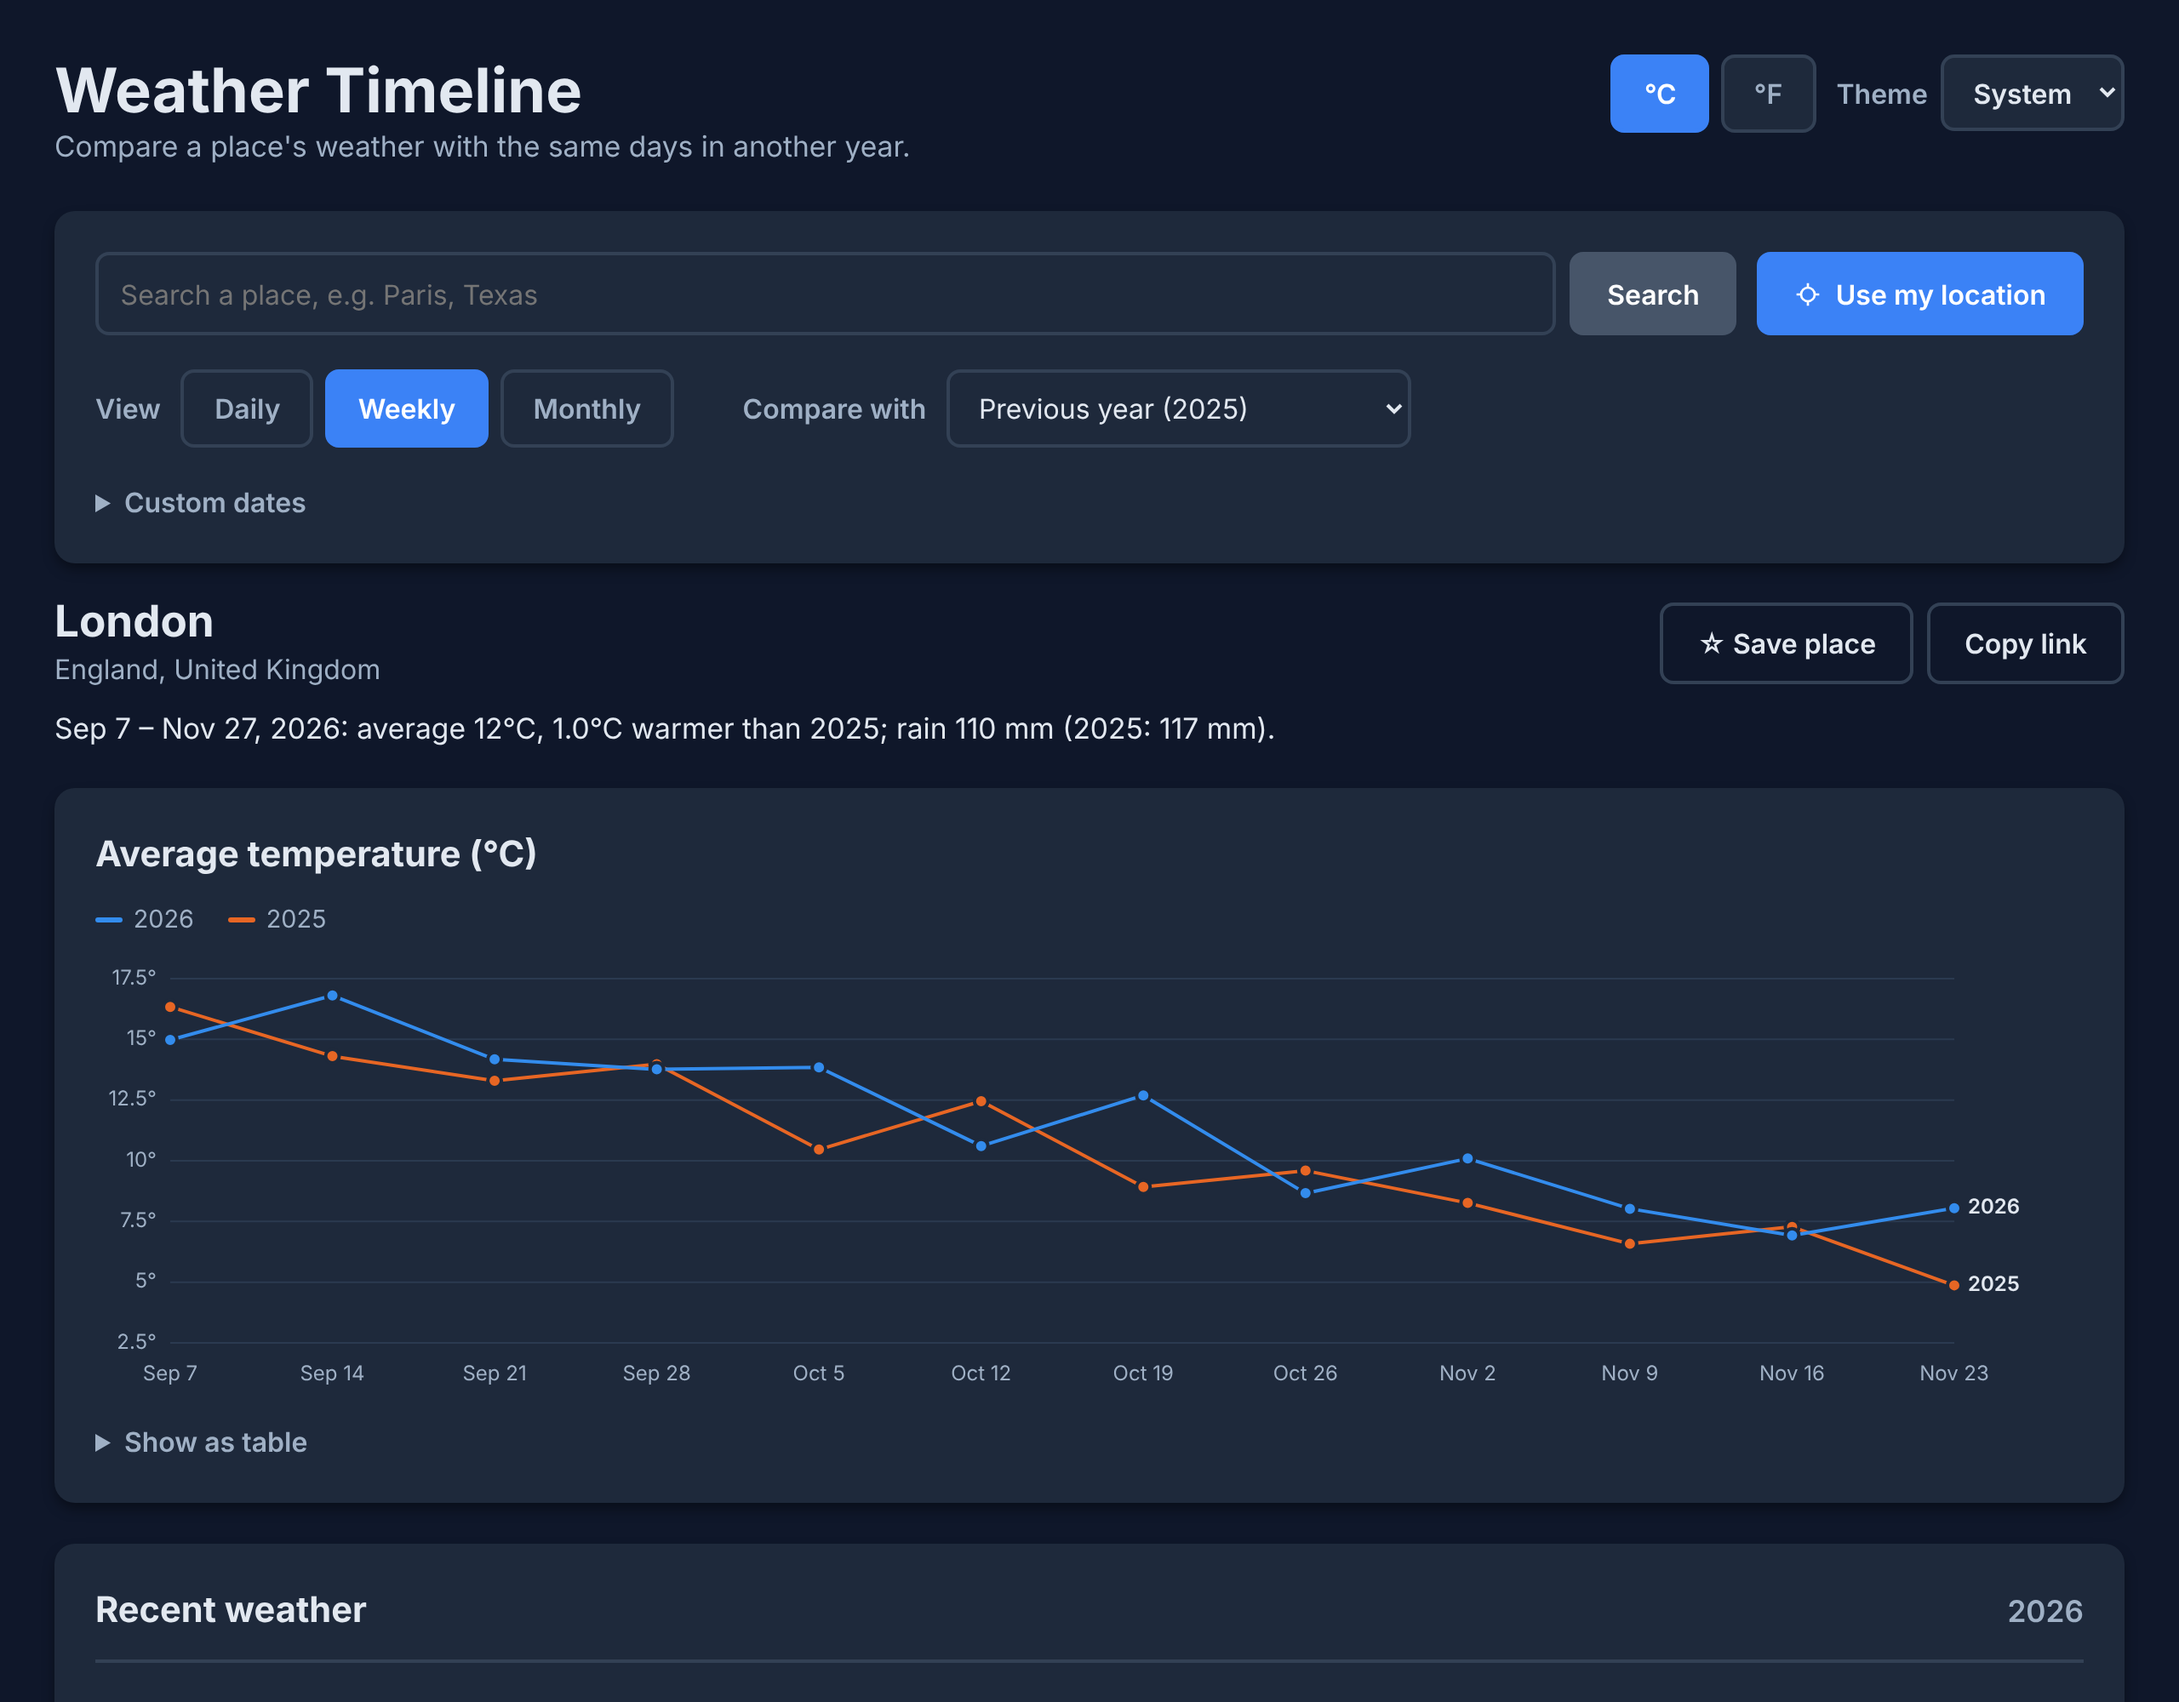
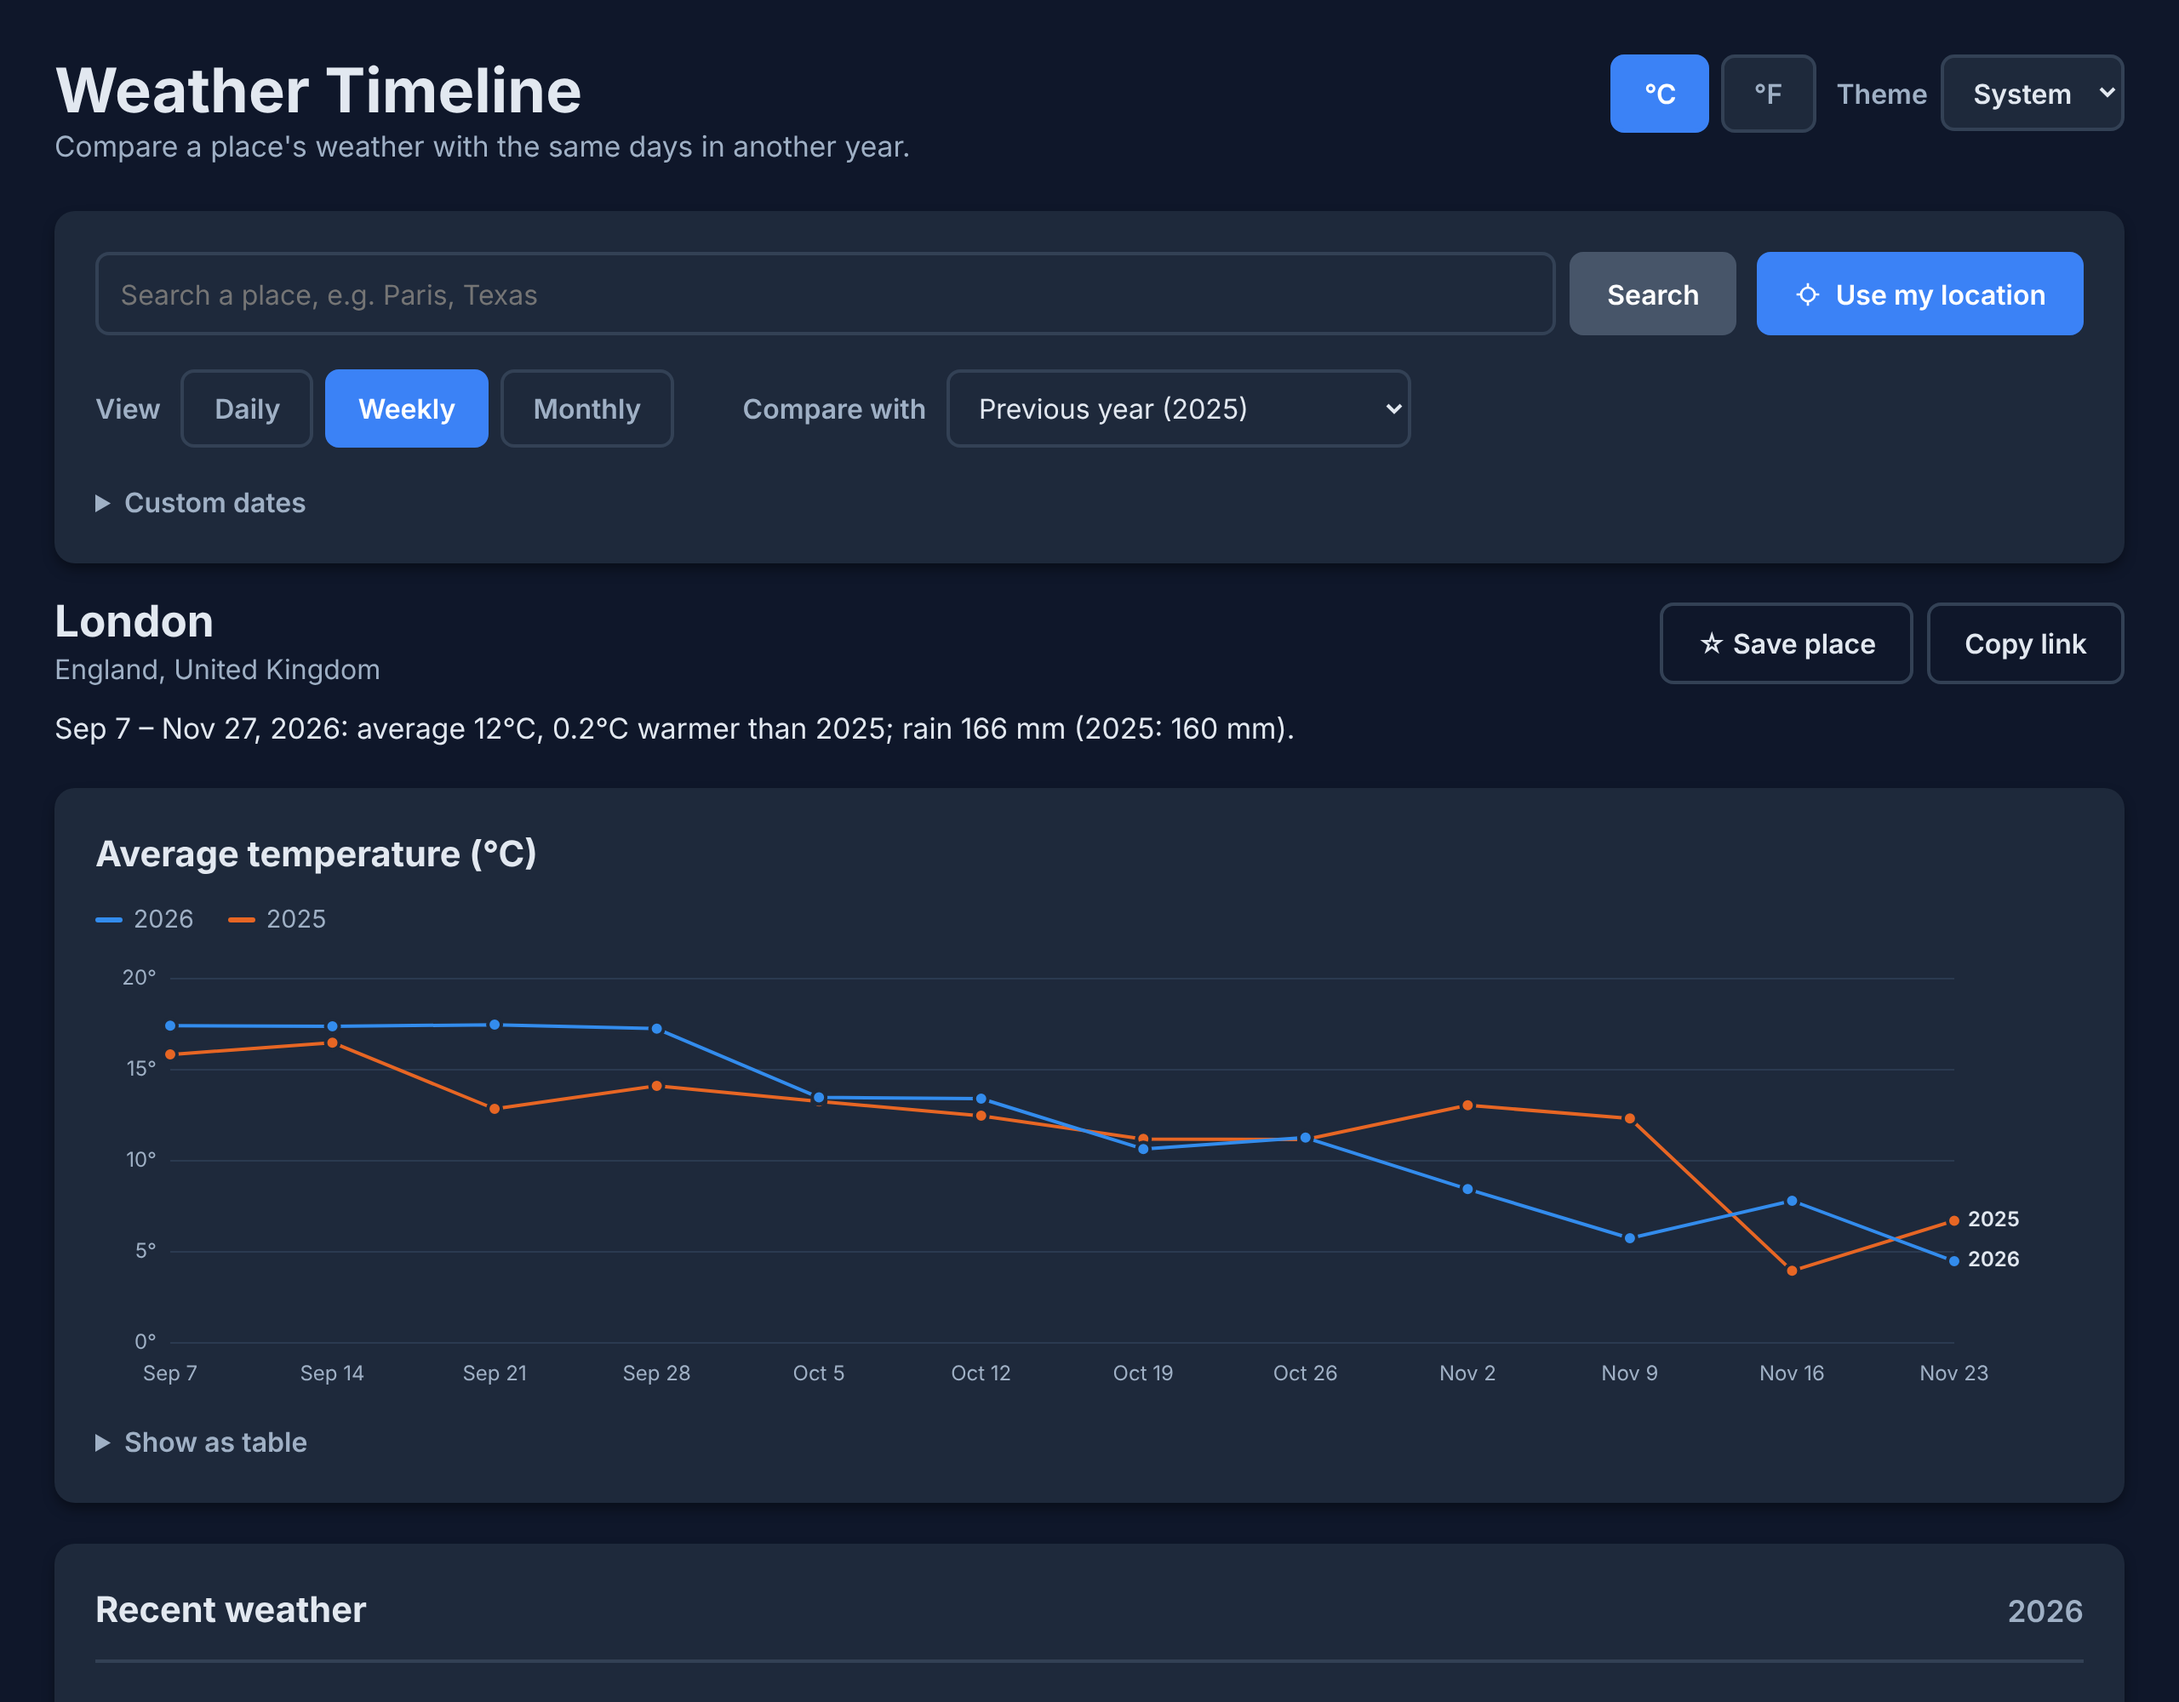
Show which rate limit was hit; use real data in screenshots
Live testing against Open-Meteo returned 429 with a reason such as
"Daily API request limit exceeded. Please try again tomorrow.", but the
app always said to wait a minute. Pass the server's reason through, and
explain per-IP limits on shared networks in the README.

Replace the sample-data screenshots with real Open-Meteo responses for
London.

Claude-Session: https://claude.ai/code/session_01Q1VqikRuPMr6AeRJ4GoKFm

Changed region(s): [[0.0625, 0.589, 0.7188, 0.713], [0.25, 0.403, 0.5938, 0.434], [0.7188, 0.713, 0.9375, 0.775]]

diff --git a/src/api.ts b/src/api.ts
@@ -171,15 +171,20 @@ export function clearCache(): void {
 }
 
 async function errorFor(response: Response): Promise<ApiError> {
-    if (response.status === 429) {
-        return new ApiError('The weather service is limiting requests right now. Wait a minute and try again.');
-    }
     let reason = '';
     try {
         const body: unknown = await response.json();
-        if (isRecord(body) && typeof body.reason === 'string') reason = body.reason;
+        if (isRecord(body) && typeof body.reason === 'string') reason = body.reason.trim();
     } catch {
         // Body was not JSON; the status code is all we have.
+    }
+    if (response.status === 429) {
+        // Open-Meteo has minutely, hourly and daily limits; its reason says which one was hit.
+        return new ApiError(
+            reason
+                ? `The weather service is limiting requests: ${reason}`
+                : 'The weather service is limiting requests right now. Wait a minute and try again.',
+        );
     }
     return new ApiError(`The weather service returned an error (${response.status})${reason ? `: ${reason}` : ''}.`);
 }

diff --git a/test/api.test.ts b/test/api.test.ts
@@ -106,6 +106,15 @@ describe('fetchDaily', () => {
         await assert.rejects(fetchDaily(1, 2, [{ start: '2020-01-01', end: '2020-01-02' }], TODAY, { fetchFn }), /Wait a minute/);
     });
 
+    it('passes on which rate limit was hit', async () => {
+        const body = { error: true, reason: 'Daily API request limit exceeded. Please try again tomorrow.' };
+        const { fetchFn } = fakeFetch(() => Response.json(body, { status: 429 }));
+        await assert.rejects(
+            fetchDaily(1, 2, [{ start: '2020-01-01', end: '2020-01-02' }], TODAY, { fetchFn }),
+            /limiting requests: Daily API request limit exceeded/,
+        );
+    });
+
     it('reports network failures', async () => {
         const fetchFn: FetchFn = () => Promise.reject(new TypeError('Failed to fetch'));
         await assert.rejects(fetchDaily(1, 2, [{ start: '2020-01-01', end: '2020-01-02' }], TODAY, { fetchFn }), /Could not reach/);

diff --git a/README.md b/README.md
@@ -8,7 +8,7 @@ Compare a place's weather with the same days in another year: day by day, week b
 
 ![Weather Timeline showing weekly average temperatures for London in 2026 against 2025](docs/screenshot.png)
 
-<sub>Screenshot rendered with sample data. A dark theme is included ([screenshot](docs/screenshot-dark.png)).</sub>
+<sub>Real Open-Meteo data for London, captured 27 November 2026. A dark theme is included ([screenshot](docs/screenshot-dark.png)).</sub>
 
 ## Features
 
@@ -97,7 +97,7 @@ One-time setup: in the repository on GitHub, open **Settings → Pages** and set
 
 - **"No place called … was found"**: check the spelling, or add a country: "Springfield, Illinois".
 - **"Location access was denied"**: allow location for the site in your browser settings. Geolocation also needs HTTPS or `localhost`.
-- **"The weather service is limiting requests"**: Open-Meteo's free tier has fair-use limits. Wait a minute and try again.
+- **"The weather service is limiting requests"**: Open-Meteo's free tier limits requests per IP address (per minute, hour and day), and the message says which limit was hit. Shared networks such as offices, VPNs and cloud machines can exhaust the limit for everyone behind them. Long ranges and the 10-year average count as several requests.
 - **Blank page when opening `index.html`**: run `npm run dev` instead, as described above.
 
 ## License
